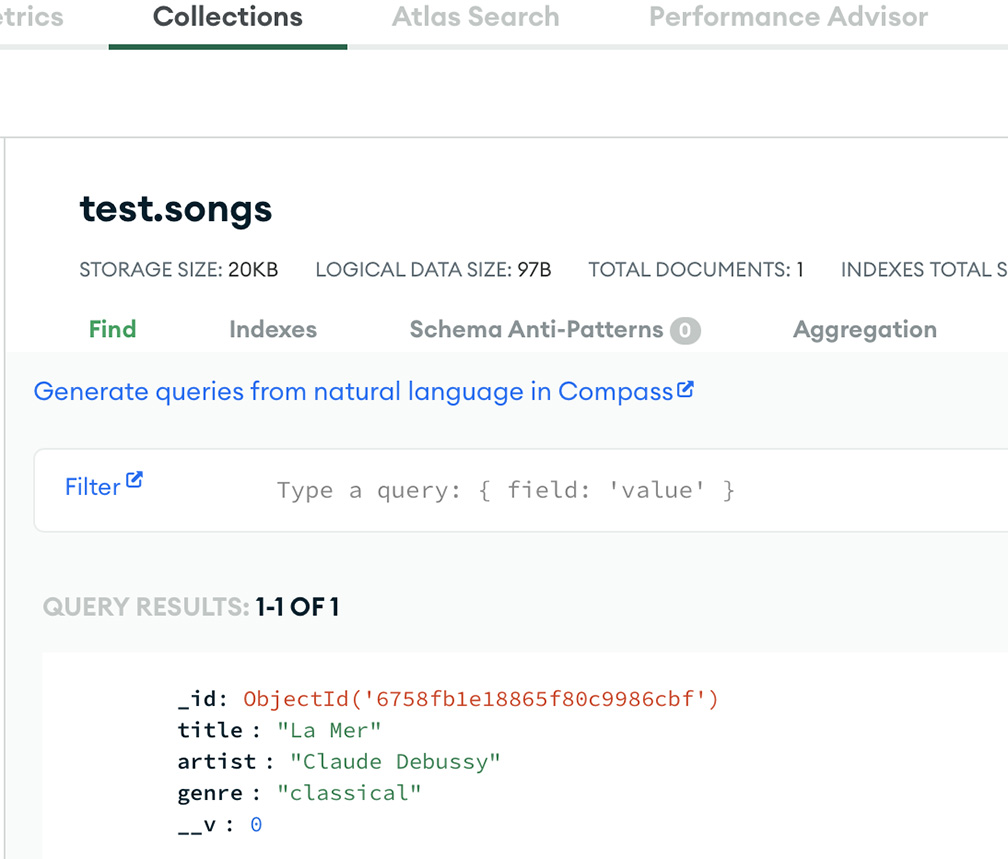
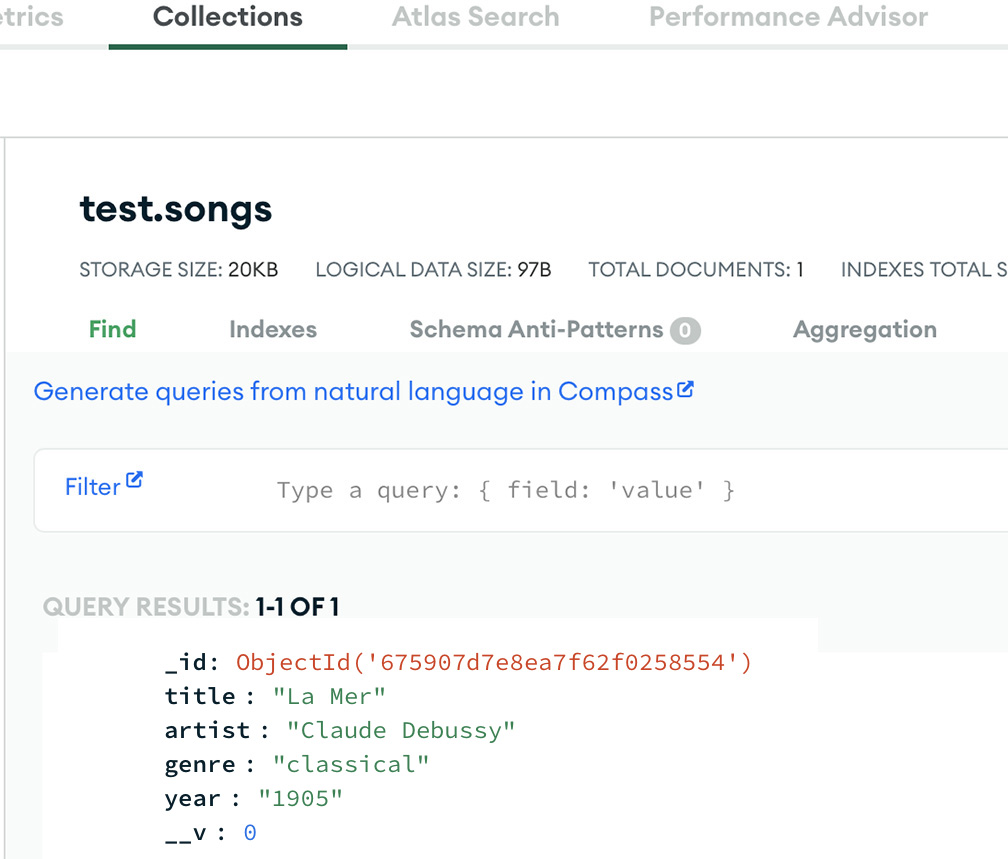
update readme & imgs/

Changed region(s): [[0.1538, 0.7567, 0.7381, 0.9988]]

diff --git a/index.js b/index.js
@@ -33,6 +33,7 @@ app.post('/songs', async (req, res) => {
         title: "La Mer",
         artist: "Claude Debussy",
         genre: "classical",
+        year: 1905,
     });
 
     //save to database

diff --git a/models/songs.js b/models/songs.js
@@ -5,6 +5,7 @@ const songSchema = mongoose.Schema({
     title: {type: String},
     artist: {type: String},
     genre: {type: String},
+    year: {type: String},
 
 });
 
